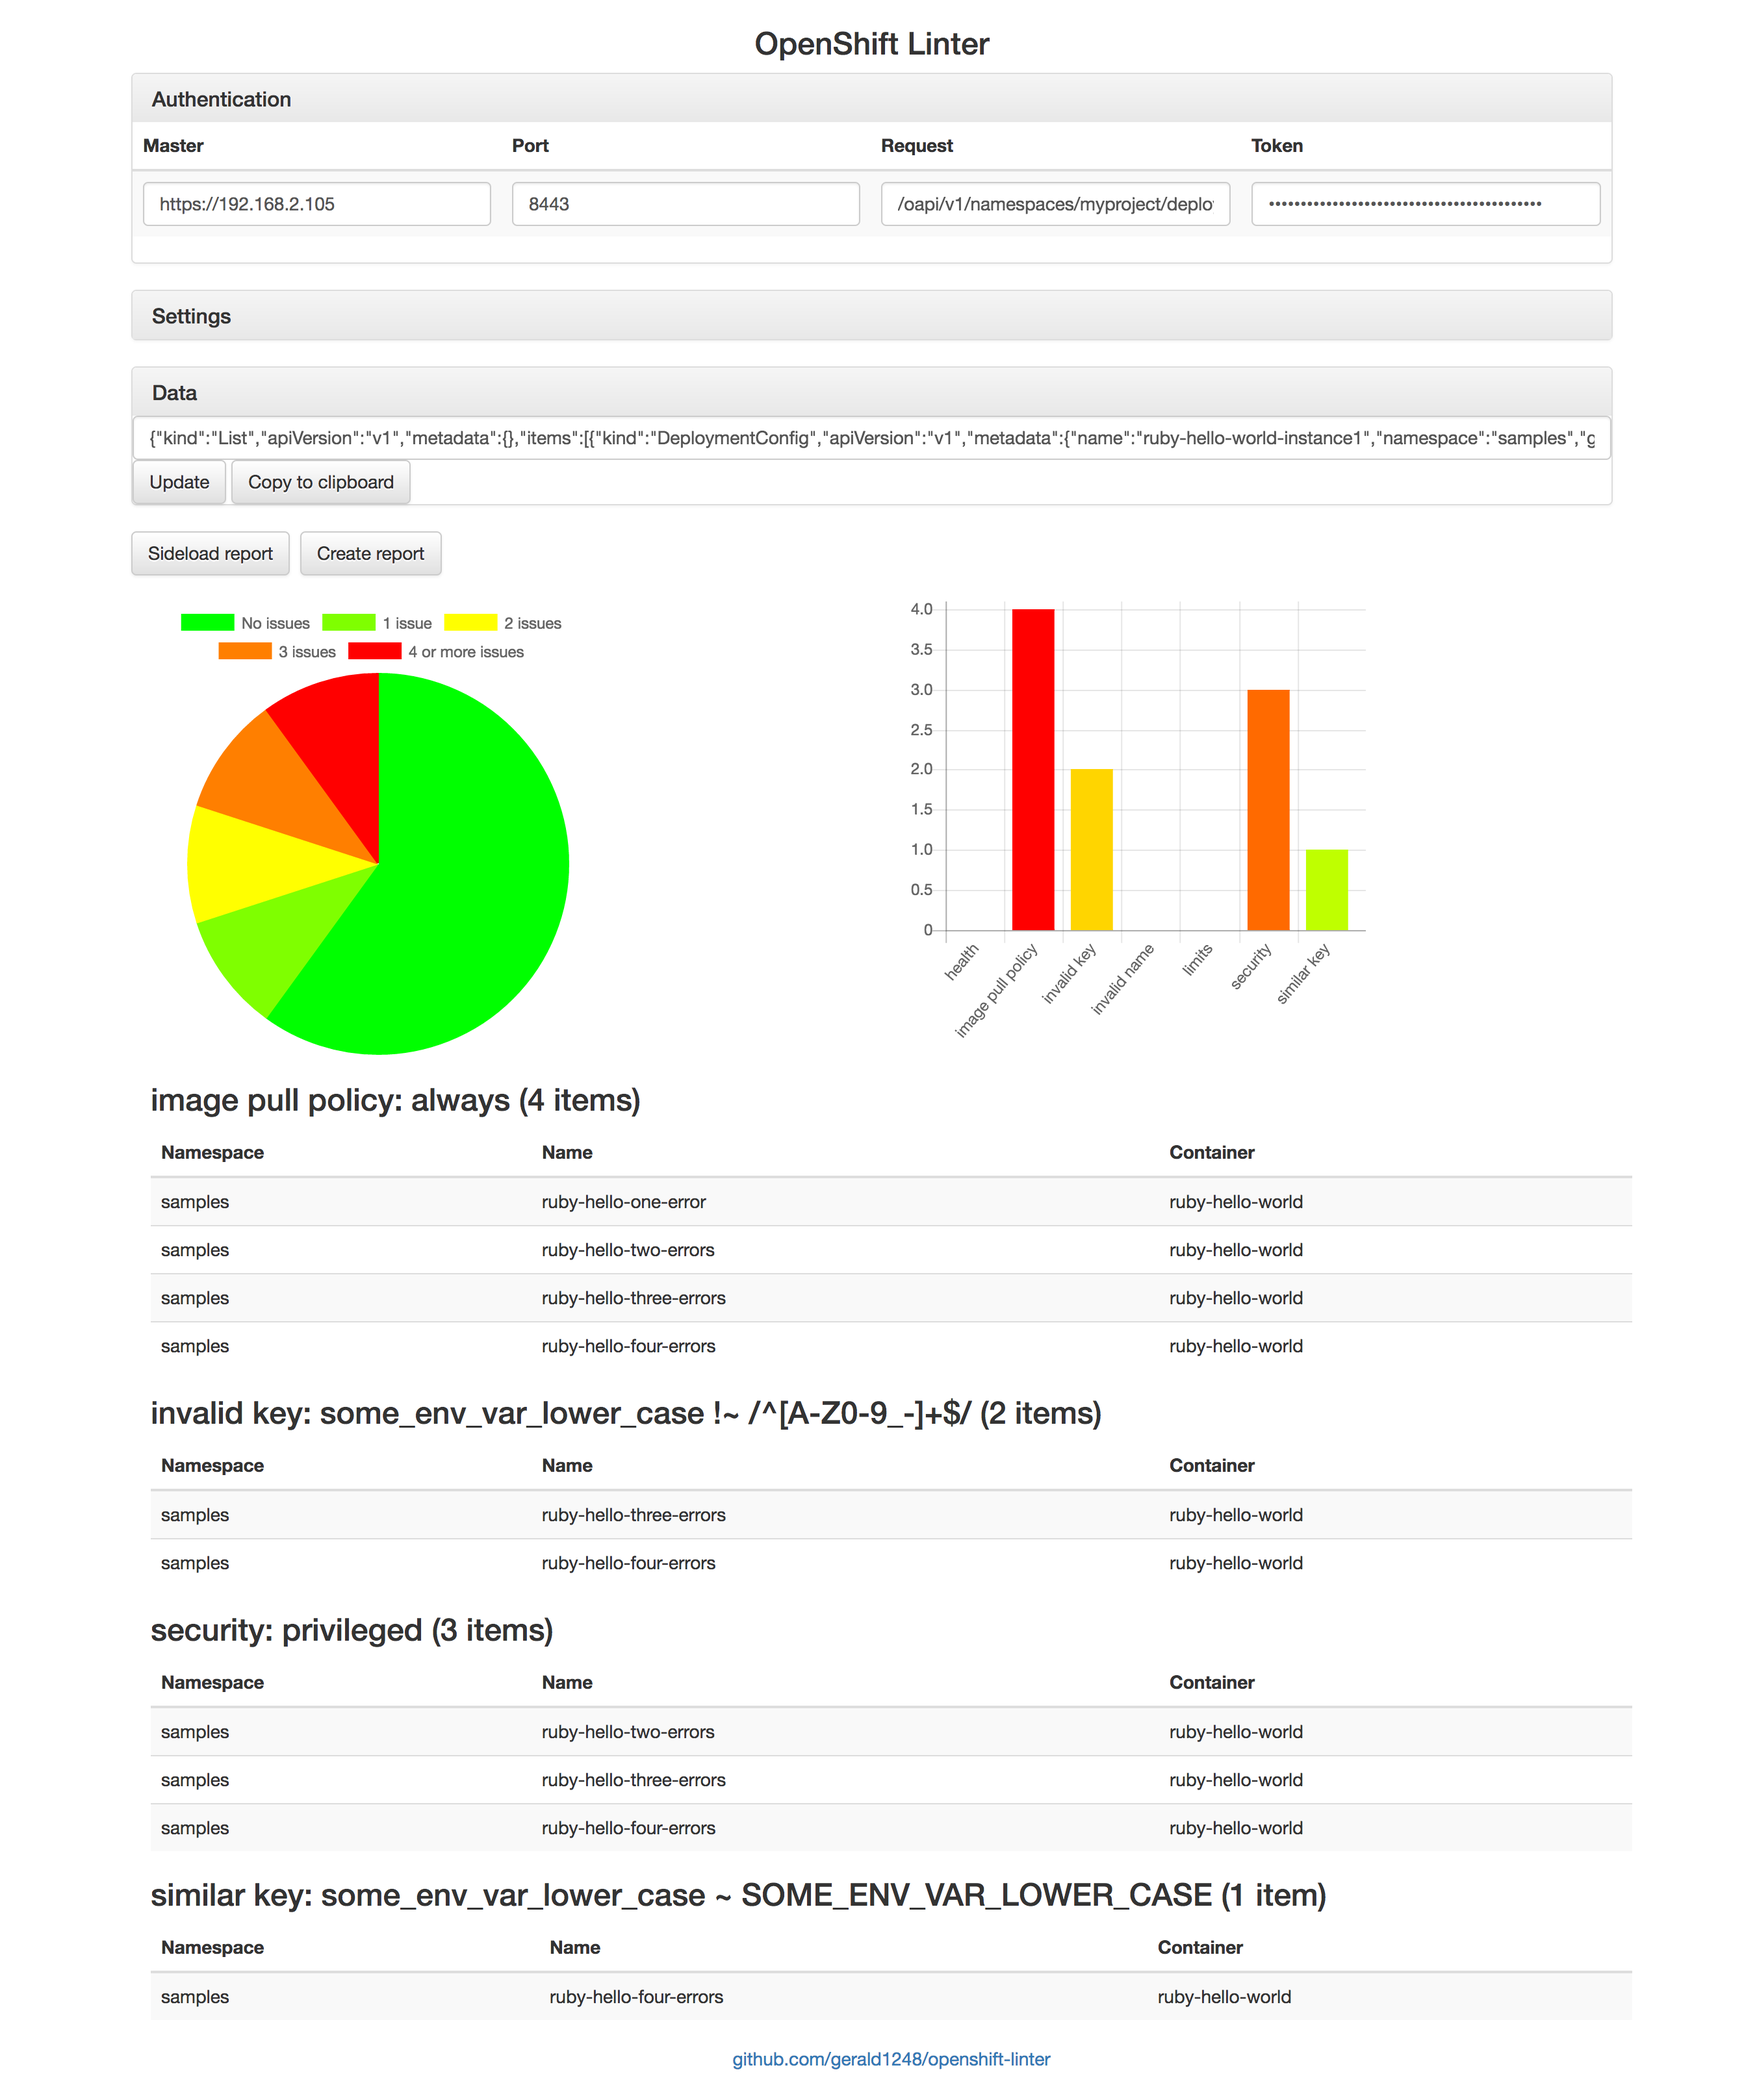
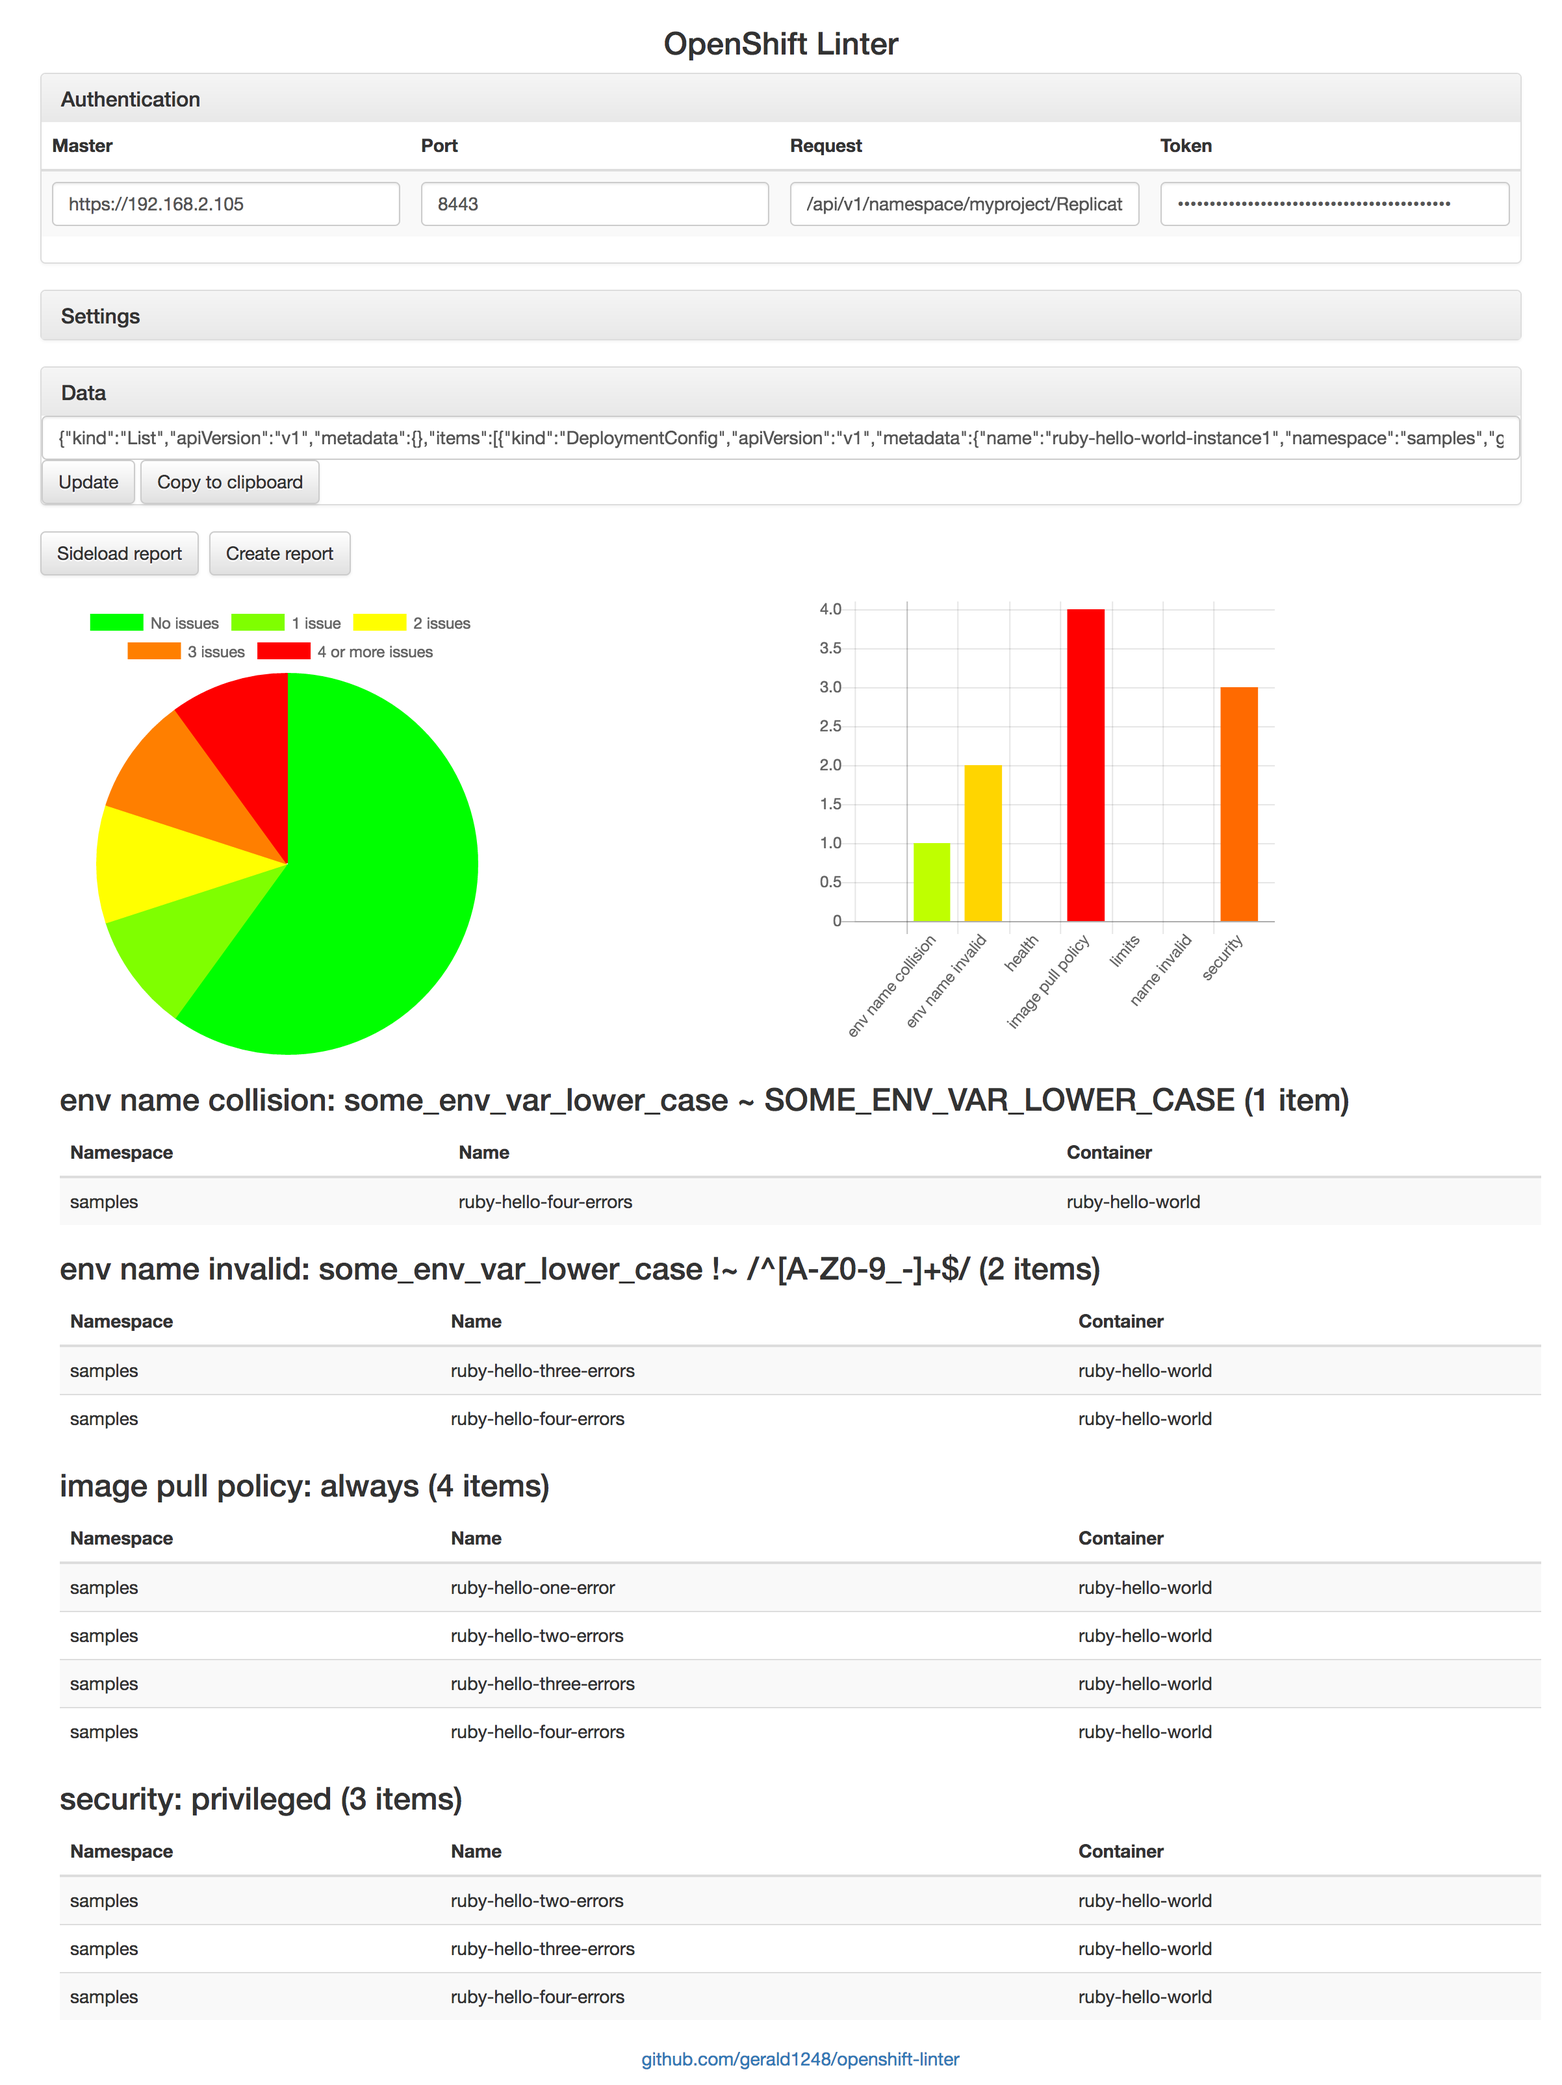
updated readme

diff --git a/bindata.go b/bindata.go
@@ -137,7 +137,7 @@ func staticCssMainCss() (*asset, error) {
 		return nil, err
 	}
 
-	info := bindataFileInfo{name: "static/css/main.css", size: 51, mode: os.FileMode(420), modTime: time.Unix(1485957913, 0)}
+	info := bindataFileInfo{name: "static/css/main.css", size: 51, mode: os.FileMode(420), modTime: time.Unix(1485958246, 0)}
 	a := &asset{bytes: bytes, info: info}
 	return a, nil
 }
@@ -257,7 +257,7 @@ func staticIndexHtml() (*asset, error) {
 		return nil, err
 	}
 
-	info := bindataFileInfo{name: "static/index.html", size: 4217, mode: os.FileMode(420), modTime: time.Unix(1485957913, 0)}
+	info := bindataFileInfo{name: "static/index.html", size: 4217, mode: os.FileMode(420), modTime: time.Unix(1485958246, 0)}
 	a := &asset{bytes: bytes, info: info}
 	return a, nil
 }
@@ -317,7 +317,7 @@ func staticJsBundleMinJs() (*asset, error) {
 		return nil, err
 	}
 
-	info := bindataFileInfo{name: "static/js/bundle-min.js", size: 5358, mode: os.FileMode(420), modTime: time.Unix(1485957913, 0)}
+	info := bindataFileInfo{name: "static/js/bundle-min.js", size: 5358, mode: os.FileMode(420), modTime: time.Unix(1485958246, 0)}
 	a := &asset{bytes: bytes, info: info}
 	return a, nil
 }
@@ -337,7 +337,7 @@ func staticJsBundleJs() (*asset, error) {
 		return nil, err
 	}
 
-	info := bindataFileInfo{name: "static/js/bundle.js", size: 28566, mode: os.FileMode(420), modTime: time.Unix(1485957913, 0)}
+	info := bindataFileInfo{name: "static/js/bundle.js", size: 28566, mode: os.FileMode(420), modTime: time.Unix(1485958246, 0)}
 	a := &asset{bytes: bytes, info: info}
 	return a, nil
 }

diff --git a/README.md b/README.md
@@ -33,16 +33,26 @@ Commands:
   list	Print list of available checks
 ```
 
-The two main use cases are:
+The main use cases are:
 
 * You already have a bunch of configuration files (the output of `oc export dc --all-namespaces`, say, assuming you're lucky enough to be `cluster-admin`)
 ```
 $ ./openshift-linter i-contain-multitudes.json
 ```
+* You wish to generate reports by posting JSON configuration files to the server at the URL shown
+```
+$ ./openshift-linter -p 8421
+Listening on port 8421
+POST JSON sources to http://localhost:8421/openshift-linter
+Generate report at http://localhost:8421/openshift-linter/report
+```
+* Open the GUI in the browser at the second URL shown
 
-* Run `./openshift-linter` and open the GUI at `http://localhost:8000/openshift-linter/report` (configure hostname and port using the -n and -p switches, respectively)
+Command line use
+----------------
 
-On the command line, the sample configuration `data/sample-mix.min.json` produces the following markdown output:
+On the command line, the sample configuration `data/sample-mix.min.json` produces the following markdown output (excerpt):
+
 ```markdown
 image pull policy
 -----------------
@@ -57,25 +67,33 @@ image pull policy
 |samples      |ruby-hello-four-errors |ruby-hello-world|
 ```
 
+To write out YAML or JSON instead, use the `-o` switch specifying either `json` or `yaml`.
+
 When setting naming conventions for namespaces, names, containers and environment variables, be sure to use anchors to describe the string as a whole.
+
+GUI use
+-------
+Open the URL shown in your browser to fetch configuration data from your OpenShift master. If you've already created a report, you can sideload and create the browser view with charts that way. You can supply the parameters usually specified on the command line in the Settings pane.
 
 Listing
 -------
-To print a list of the available linter items, enter:
+To print a list of the available linter items with descriptions, enter:
 ```
 $ ./openshift-linter list
-health
-image pull policy
-invalid key
-invalid name
-limits
-security
-similar key
+|**Item**          |**Description**                                            |
+|:-----------------|:----------------------------------------------------------|
+|env name collision|near-identical env names                                   |
+|env name invalid  |env name doesn't match predefined regex                    |
+|health            |health check missing or incomplete                         |
+|image pull policy |policy 'Always' or ':latest' image specified               |
+|limits            |resource limits missing, incomplete or invalid             |
+|name invalid      |namespace, name or container doesn't match predefined regex|
+|security          |privileged security context                                |
 ```
 
 Build
 -----
-Install Go using one of the installers available from `https://golang.org/dl/` and set up your `$GOPATH` and `$GOBIN` as you see fit (exporting `GOPATH=~/golang` and `GOBIN=$GOPATH/bin` in your `.bash_profile` will do).
+Install Go using one of the installers available from `https://golang.org/dl/` and set up your `$GOPATH` and `$GOBIN` as you see fit (exporting `GOPATH=~/golang` and `GOBIN=$GOPATH/bin` in your `.bash_profile` will do). Windows users should use Git Bash or a similar, unixy shell.
 
 Then clone `github.com/gerald1248/openshift-linter`. The folder structure below `$GOPATH` should look roughly as follows:
 ```
@@ -141,7 +159,7 @@ $ go get -u github.com/jteeuwen/go-bindata/...
 $ go get -u
 ```
 
-With that, the workspace is ready. The default task (triggered by `gulp`) compiles `openshift-linter` from source, runs (minimal for now) tests, checks the source format, generates a binary in `package` and writes out a distributable zip for your operating system.
+With that, the workspace is ready. The default task (triggered by `gulp`) compiles `openshift-linter` from source, runs tests, checks the source format, generates a binary in `package` and writes out a distributable zip for your operating system.
 
 You can also run `gulp build`, `gulp test`, `gulp watch`, etc. individually if you wish.
 
